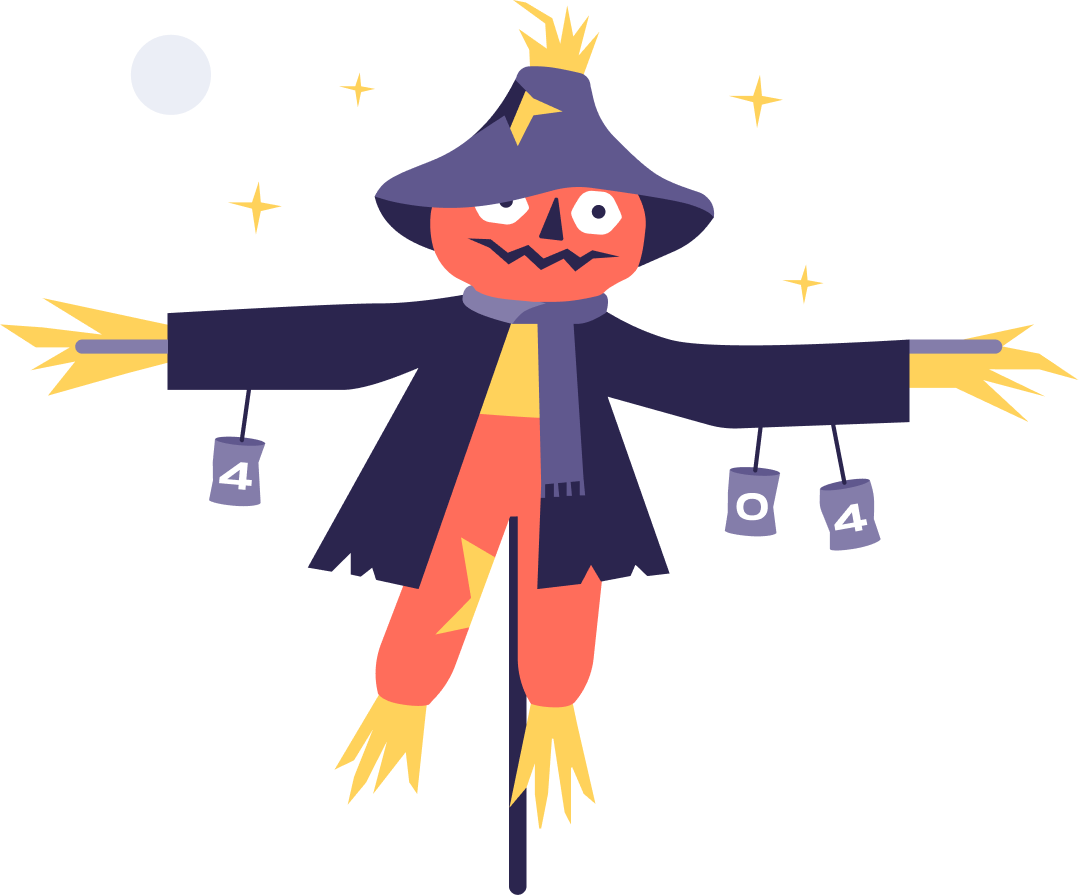
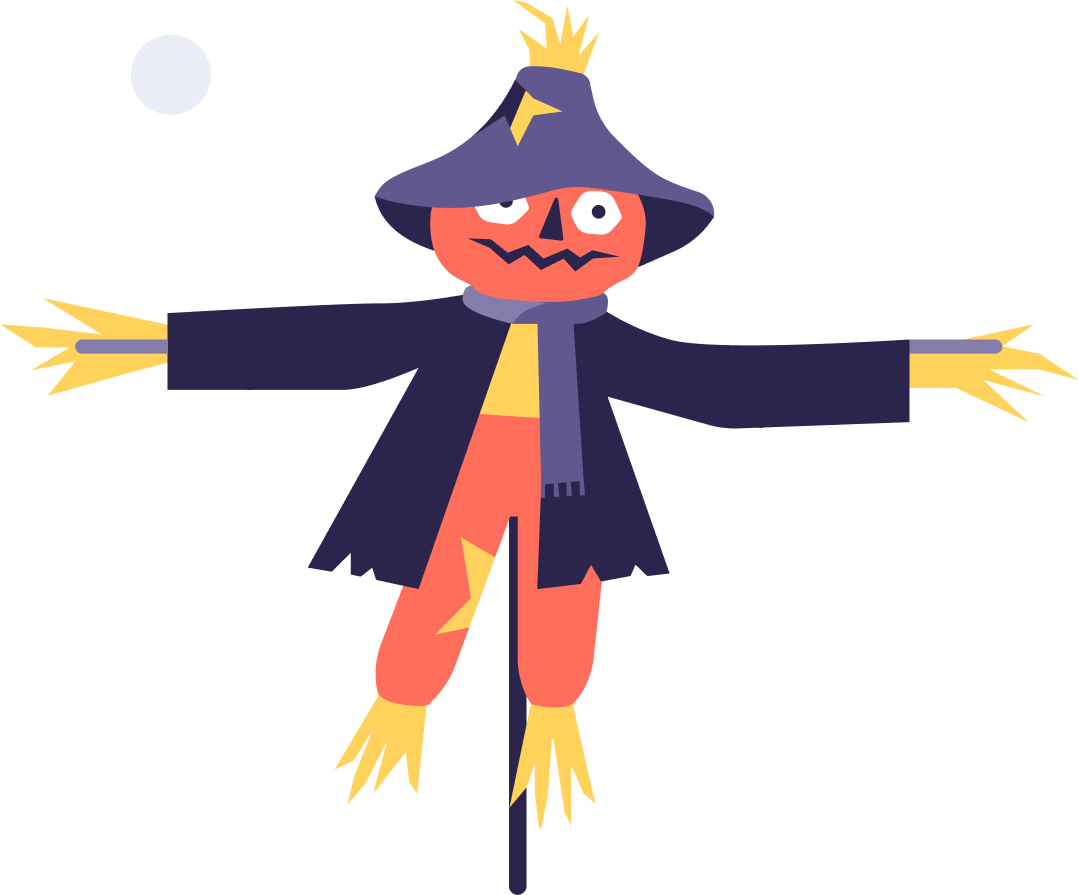
ADD: scarecrow and button animation

diff --git a/css/style.css b/css/style.css
@@ -3,6 +3,8 @@
     --gray: #BDBDBD;
     --primary-color: #333333;
     --secondary-color: #4F4F4F;
+    --orange: #FF6D5B;
+    --light-orange: #ff8e80;
     --font-header: 'Inconsolata', monospace;
     --font: 'Space Mono', monospace;
     --font-footer: 'Montserrat', sans-serif;
@@ -37,10 +39,107 @@
     height: 100%;
 }
 
-.main > .img{
+.main > .container-img{
     max-width: 450px;
     width: 50vw;
     min-width: 350px;
+    position: relative;
+   
+}
+
+.img{
+    width: 100%;
+    
+}
+
+.star-1{
+    position: absolute;
+    top: 18%;
+    left: 20%;
+    width: 7%;
+    animation: zoom-in-out-start-1 1.5s ease-in-out infinite;
+}
+
+.star-2{
+    position: absolute;
+    top: 7%;
+    left: 31%;
+    width: 4.5%;
+    animation: zoom-in-out-start-1 1.5s ease-in-out infinite 375ms;
+}
+
+.star-3{
+    position: absolute;
+    top: 7%;
+    left: 67%;
+    width: 6%;
+    animation: zoom-in-out-start-1 1.5s ease-in-out infinite 750ms;
+}
+
+.star-4{
+    position: absolute;
+    top: 28%;
+    left: 72%;
+    width: 5%;
+    animation: zoom-in-out-start-1 1.5s ease-in-out infinite 1215ms;
+}
+
+@keyframes zoom-in-out-start-1 {
+    0% {
+        opacity: 1;
+        transform: scale(1.2);
+        
+    }
+    50% {
+        opacity: 0.3;
+        transform: scale(0.4);
+    }
+    100% {
+        opacity: 1;
+        transform: scale(1.2);
+    }
+}
+
+.img-4l{
+    position: absolute;
+    top: 41%;
+    left: 17%;
+    width: 12%;
+    transform-origin: center top;
+    animation: pendulum 3s ease-in-out infinite;
+    transform: rotate(10deg)
+}
+
+.img-0{
+    position: absolute;
+    top: 47%;
+    left: 63%;
+    width: 12%;
+    transform-origin: center top;
+    animation: pendulum 3s ease-in-out infinite 300ms;
+    transform: rotate(10deg)
+}
+
+.img-4r{
+    position: absolute;
+    top: 45%;
+    left: 72%;
+    width: 12%;
+    transform-origin: center top;
+    animation: pendulum 3s ease-in-out infinite 500ms;
+    transform: rotate(10deg)
+}
+
+@keyframes pendulum {
+    0% {
+        transform: rotate(10deg);
+    }
+    50% {
+        transform: rotate(-10deg);
+    }
+    100% {
+        transform: rotate(10deg);
+    }
 }
 
 .content{
@@ -78,9 +177,42 @@
     font-weight: 700;
     font-size: 1rem;
     line-height: 1.2rem;
-    border:none !important;
+    border: unset;
     color: var(--white);
     background-color: var(--primary-color);
+    z-index: 1;
+    position: relative;
+    overflow: hidden;
+}
+
+.button::before {
+    content: "";
+    position: absolute;
+    top: 0;
+    left: 0;
+    height: 100%;
+    width: 0;
+    background-color: var(--orange);
+    z-index: -1;
+    transition: all 250ms ease;
+}
+
+.button:hover {
+    color: var(--primary-color);
+}
+
+.button:hover::before {
+    width: 100%;
+}
+
+.button:focus {
+    color: var(--primary-color);
+    background-color: var(--light-orange);
+}
+
+.button:focus::before {
+    background-color: var(--light-orange);
+    width: 100%;
 }
 
 .footer{
@@ -89,6 +221,7 @@
     align-items: flex-end;
     padding-bottom: 1rem;
     text-align: center;
+    margin-top: 2rem;
 }
 
 .text-footer{
@@ -112,6 +245,16 @@
         padding: 0;
         margin: 1.5rem;
         gap: 2rem;
+    }
+
+    .button:focus {
+        color: var(--primary-color);
+        background-color: var(--orange);
+    }
+    
+    .button:focus::before {
+        background-color: var(--orange);
+        width: 100%;
     }
 }
 
@@ -138,7 +281,7 @@
         margin: 1.5rem;
     }
 
-    .main > .img{
+    .main > .container-img{
         min-width: 200px;
     }
 

diff --git a/index.html b/index.html
@@ -11,14 +11,28 @@
     <link href="https://fonts.googleapis.com/css2?family=Montserrat:wght@500;600;700&display=swap" rel="stylesheet">
     <link rel="stylesheet" href="css/normalize.css">
     <link rel="stylesheet" href="css/style.css">
-    <title>404</title>
+    <link rel="icon" href="img/devchallenges.png" sizes="8x8">
+    <title>404 NOT FOUND</title>
 </head>
 <body class="container">
     <header class="header">
         <h1 class="header-title">404 not found</h1>
     </header>
     <main class="main">
-        <img class="img" src="img/Scarecrow.png" alt="Scarecrow.png">
+        <div class="container-img">
+
+            <img class="star-1" src="img/estrella.png" alt="star-1.png">
+            <img class="star-2" src="img/estrella.png" alt="star-2.png">
+            <img class="star-3" src="img/estrella.png" alt="star-3.png">
+            <img class="star-4" src="img/estrella.png" alt="star-4.png">
+
+            <img class="img-4l" src="img/Scarecrow-4L.png" alt="Scarecrow-4L.png">
+            <img class="img-0" src="img/Scarecrow-0.png" alt="Scarecrow-0.png">
+            <img class="img-4r" src="img/Scarecrow-4R.png" alt="Scarecrow-4R.png">
+            
+            <img class="img" src="img/Scarecrow.png" alt="Scarecrow.png">
+        </div>
+        
         <section class="content">
             <h2 class="primary-text">I have bad news for you</h2>
             <p class="secondary-text">The page you are looking for might be removed or is temporarily unavailable</p>
